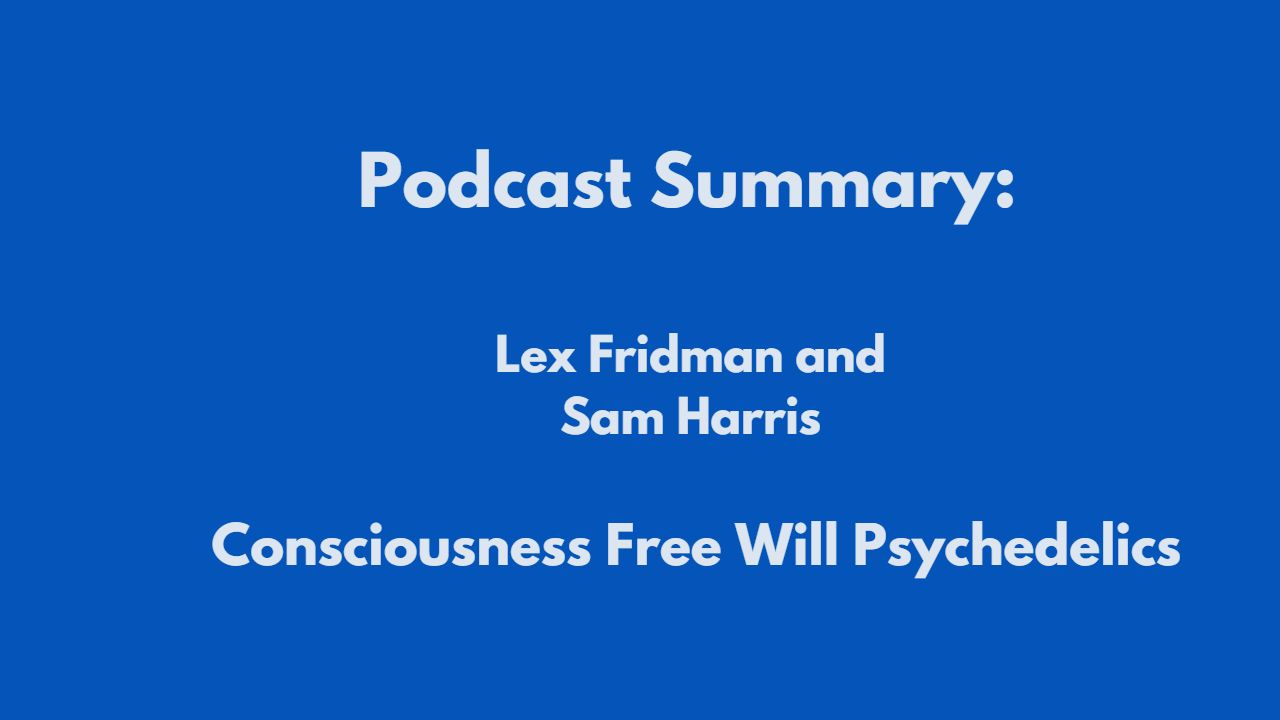
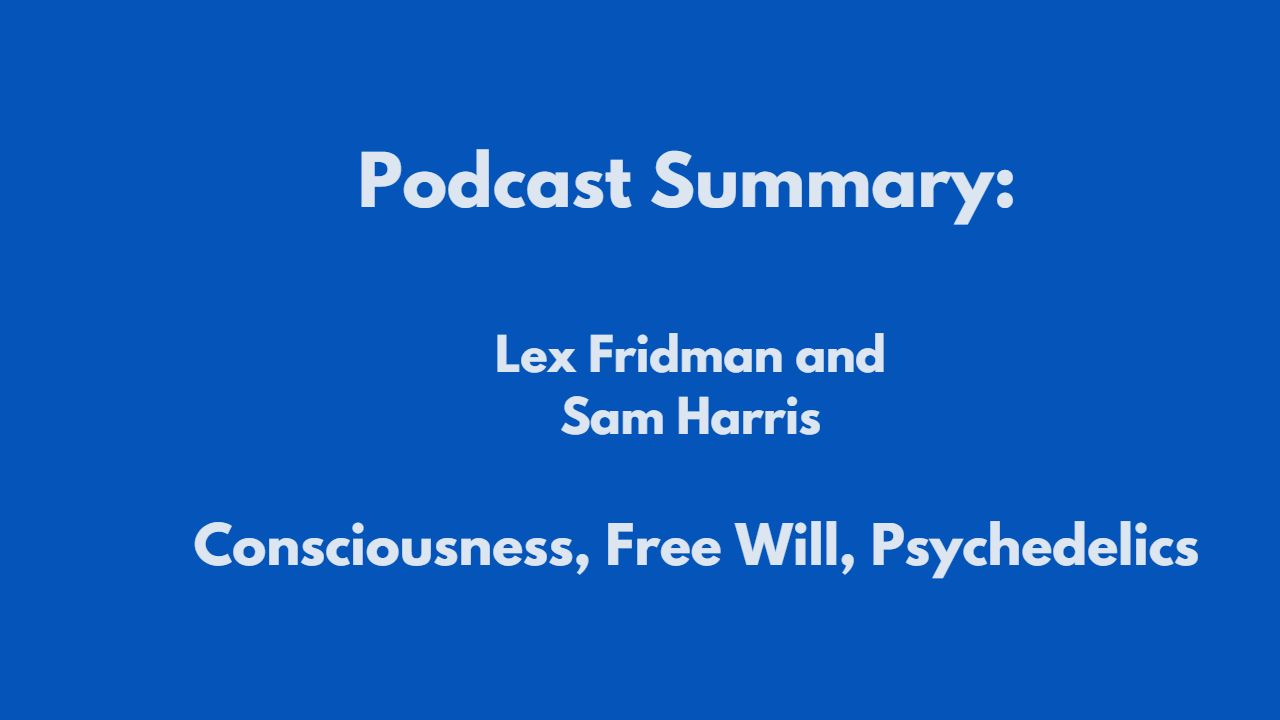
dsp6050

Changed region(s): [[0.6562, 0.7028, 0.9375, 0.825], [0.125, 0.7028, 0.4688, 0.7944]]

diff --git a/_dsblog/2023-02-07-Podcast-LexFridman-SamHarris-Consciousness-FreeWill-Psychedelics.md b/_dsblog/2023-02-07-Podcast-LexFridman-SamHarris-Consciousness-FreeWill-Psychedelics.md
@@ -21,74 +21,78 @@ toc_sticky: true
 ![Postcast Lex Fridman Sam Harris Consciousness FreeWill Psychedelics](/assets/images/dspost/dsp6050-Podcast-LexFridman-SamHarris-Consciousness-FreeWill-Psychedelics.jpg)
 
 
-# Podcast : Lex Fridman Sam Harris Consciousness Free Will Psychedelics
+# Podcast Summary: Lex Fridman Sam Harris Consciousness Free Will Psychedelics
 
-This is an interesting and deepdive discussion between Lex Fridman and Sam Harris. In 3 hours 20 minute enchanting discussion they explore various topics like Consciousness, Free Will, Psychedelics, AI, UFOs etc.
+This is an interesting and deepdive discussion between [Lex Fridman](https://en.wikipedia.org/wiki/Lex_Fridman) and [Sam Harris](https://en.wikipedia.org/wiki/Sam_Harris). In 3 hours 20 minute enchanting discussion they explore various topics like Consciousness, Free Will, Psychedelics, AI, UFOs etc.
 
 **Title: Sam Harris-: Consciousness, Free Will, Psychedelics, AI, UFOs, and Meaning / Lex Fridman Podcast #185**
 
-If you have time and you are intersted in this kind of deep discussion you can watch the video in the following link. [3 Hours 19 Minutes Full Podcast](https://www.youtube.com/watch?v=4dC_nRYIDZU)
+If you have time and you are intersted in this kind of deep discussion you can watch the video at the following link. [3 Hours 19 Minutes Full Podcast](https://www.youtube.com/watch?v=4dC_nRYIDZU)
 
+[Sam Harris](https://en.wikipedia.org/wiki/Sam_Harris) is an influential thinker, author, and podcast host who has inspired many people with his writing, debates, and podcast, and meeting him was a memorable moment for Lex Friedman.
+  
 Here is the summary of the discussion.   
 
-Exploring altered states of consciousness can help us uncover truths about ourselves and the world, and equip us with the skills to navigate life's challenges.
-
-
-- Experiencing altered states of consciousness, such as through psychedelics and lucid dreaming, can help us explore the nature of consciousness and its contents.
-   - Sam Harris is an influential thinker, author, and podcast host who has inspired many people with his writing, debates, and podcast, and meeting him was a memorable moment for Lex Friedman.
+- Altered states of consciousness
+   - Experiencing altered states of consciousness, such as through psychedelics and lucid dreaming, can help us explore the nature of consciousness and its contents.
    - Thoughts appear to come from nowhere, but meditation and psychedelics can help us explore the nature of consciousness and its contents.
    - It is uncertain if consciousness is a fundamental principle of matter or an emergent property of information processing.
-   - I'm agnostic on the spectrum between panpsychism, where consciousness is fundamental to reality, and the idea that consciousness is a useful hack for humans to survive, as it may be unfalsifiable and the concepts we use to divide consciousness and matter may be part of our problem.
+   - (Sam) I'm agnostic on the spectrum between panpsychism, where consciousness is fundamental to reality, and the idea that consciousness is a useful hack for humans to survive. Because it may be unfalsifiable and the concepts we use to divide consciousness and matter may be part of our problem.
    - It is possible to experience more than language-structured consciousness, as demonstrated by psychedelic experiences and other altered states.
-   - Many people report seeing "machine elves" when taking DMT, which is an intense and short-acting psychedelic, and lucid dreaming can show the mind's ability to create compelling simulacrums of others.
-- Exploring consciousness can reveal truths about ourselves and free us from hatred, showing that reality may be far from what we perceive.
+   - Many people report seeing "machine elves" when taking [DMT](https://www.healthline.com/health/what-is-dmt), which is an intense and short-acting psychedelic, and lucid dreaming can show the mind's ability to create compelling simulacrums of others.
+- Exploring consciousness & Free will
+   - Exploring consciousness can reveal truths about ourselves and free us from hatred, showing that reality may be far from what we perceive.
    - Reality may be far from what we perceive, and psychedelics may offer insight into alternate versions of reality.
    - Exploring consciousness from a first-person perspective can reveal truths about ourselves that cannot be discovered through third-person scientific methods.
    - Humans have only a tiny fraction of understanding of reality, and our evolutionary history suggests that even our ancestors thought they understood the world well.
    - Free will is an illusion, and even the experience of free will is an illusion.
    - Our experiences are compatible with the idea that our actions are predetermined, but recognizing this can be freeing and undermines the basis for hatred.
    - Don't let hatred consume your life, as it is pure poison.
-- Eating something that violates a cultural norm you didn't create can make you feel an urge to vomit.
+- Ability to suffer
+   - Eating something that violates a your cultural norm can make you feel an urge to vomit.
    - Creating robots that can suffer is worse than any mass murderer, as it would be creating a real hell populated with minds that can suffer.
    - People feel like they have a self with free will, but this feeling is an illusion created by the experience of embodiment.
    - Meditation helps us to become aware of our thoughts and feelings, and to recognize that we are not always in control of our actions.
    - Thoughts and intentions arise from a combination of genetics and environmental influences, and the idea of free will is unraveled by realizing that we have no control over these factors.
    - We follow cultural norms without consciously inventing them, and we notice when they are violated.
-   - You feel an urge to vomit when you realize you've eaten something that violates a norm you didn't create.
-- Lex is making a decision to move to Austin, but free will is an illusion as decisions are made without conscious awareness.
+- Free will 
+   - Free will is an illusion as decisions are made without conscious awareness.
    - We can make choices and have intentions, but the feeling of free will is an illusion as causation cannot make sense of it.
-   - Simple rules can create complex systems that appear to have organisms interacting, but free will is not an illusion as it is impossible to map onto any notion of causation.
+   - Simple rules can create complex systems that appear to have organisms interacting.
    - It is not possible to revise the concept of consciousness or free will, as it is anchored to an experiential feeling that cannot be lost.
    - Taking time to create a circumstance where free will can be experienced is necessary to make it most robust.
    - Decisions are made without a sense of free will, as something simply emerges from the darkness and can be predicted before the conscious agent is aware.
    - Lex is moving to Austin after considering Miami.
-- Realizing life is finite, equanimity in difficult situations, treating mistakes lightly, and having a sense of humor can help us navigate turbulent passages without fear and worry.
+- Handling Human Emotions
+   - Realizing life is finite, equanimity in difficult situations, treating mistakes lightly, and having a sense of humor can help us navigate turbulent passages without fear and worry.
    - Hatred is toxic and ultimately useless, and anger can be a signal of salience that there is a problem to be solved.
    - Equanimity is useful in responding to difficult situations, allowing us to navigate turbulent passages without being diminished by fear and worry.
    - Realizing that life is finite helps us prioritize and live each day to the fullest.
    - You want to treat mistakes lightly, extract the actionable information, and have a sense of humor to avoid the gravitational pull of self-absorption.
-   - I have a peculiar audience that reacts differently to my views on politics, resulting in a unique experience of having an audience.
    - Police violence episodes vary and cannot be generalized as just another racist maniac on the police force killing someone based on racism.
-- We must learn to cooperate and use our power wisely to survive the potential of engineered pandemics and the emergence of superhuman AI.
+- Cooperations & Survival
+   - We must learn to cooperate and use our power wisely to survive the potential of engineered pandemics and the emergence of superhuman AI.
    - The biggest threat to the survival of the human species is our inability to agree on what the threats are and how to respond to them.
    - We are unprepared for the potential of engineered pandemics and unable to agree on the ground truth of the current pandemic, making it difficult to solve other problems that may yet kill us.
    - Given the assumptions of substrate independence, incremental progress, and alignment with human well-being, we will eventually be in the presence of superhuman competence for any act of intelligence or cognition.
    - AI will need to be deeply integrated with human society and aligned with us in order to achieve super intelligence.
    - Humans must supervise autonomous systems to ensure they are aligned with our values and do not cause unintended consequences.
    - Our egocentric, short-term interests limit our ability to use our power wisely, as evidenced by the competition between James Watson and Linus Pauling in cracking the structure of DNA.
-- Seeking truth and authenticity, people are looking for evidence-based understanding, open-minded communication, and self-defense skills.
+- Seeking truth
+   - Seeking truth and authenticity, people are looking for evidence-based understanding, open-minded communication, and self-defense skills.
    - We can be honest about not believing traditional religious beliefs and still find useful wisdom in them without deceiving ourselves or others.
    - The question is whether science and reason can generate viral, sticky stories that give meaning to people's lives.
    - U.S. government is likely to soon disclose evidence of technology flying around that is not of human origin.
    - People are increasingly seeking authenticity and truth, which can lead to a greater hunger for reality, reason, and evidence-based understanding.
    - People are hungry for scientists to communicate with an open-minded and curious energy, rather than a dogmatic one.
+- Love & Power of Meditation 
+   - Meditation is a superpower that allows us to be present and recognize when our beliefs have been disconfirmed, while AI systems may be able to manipulate us with an illusion of love.
    - Brazilian Jiu Jitsu is a martial art that quickly teaches you how to defend yourself and others from harm.
-- Meditation is a superpower that allows us to be present and recognize when our beliefs have been disconfirmed, while AI systems may be able to manipulate us with an illusion of love.
    - Jiu-Jitsu is a powerful language and argument that strips away any role of luck and teaches us when to tap out and recognize when our beliefs have been disconfirmed.
    - Love is a deep commitment to the well-being of those we love, wanting them to be happy and being made happy by their happiness.
    - Robots that can display love and are super intelligent may be able to manipulate us, making it hard to tell if the love is real or an illusion.
    - Meditation is a superpower that allows us to be captivated by the present moment and obviate any need to ask the meaning of life.
    - Real attention to the present moment can dissolve the illusion that future happiness is contingent on becoming something else.
-   - Sam Harris and I discussed AI systems, free will, and his podcast, and he shared his thoughts on being the storm.
+
 
 
